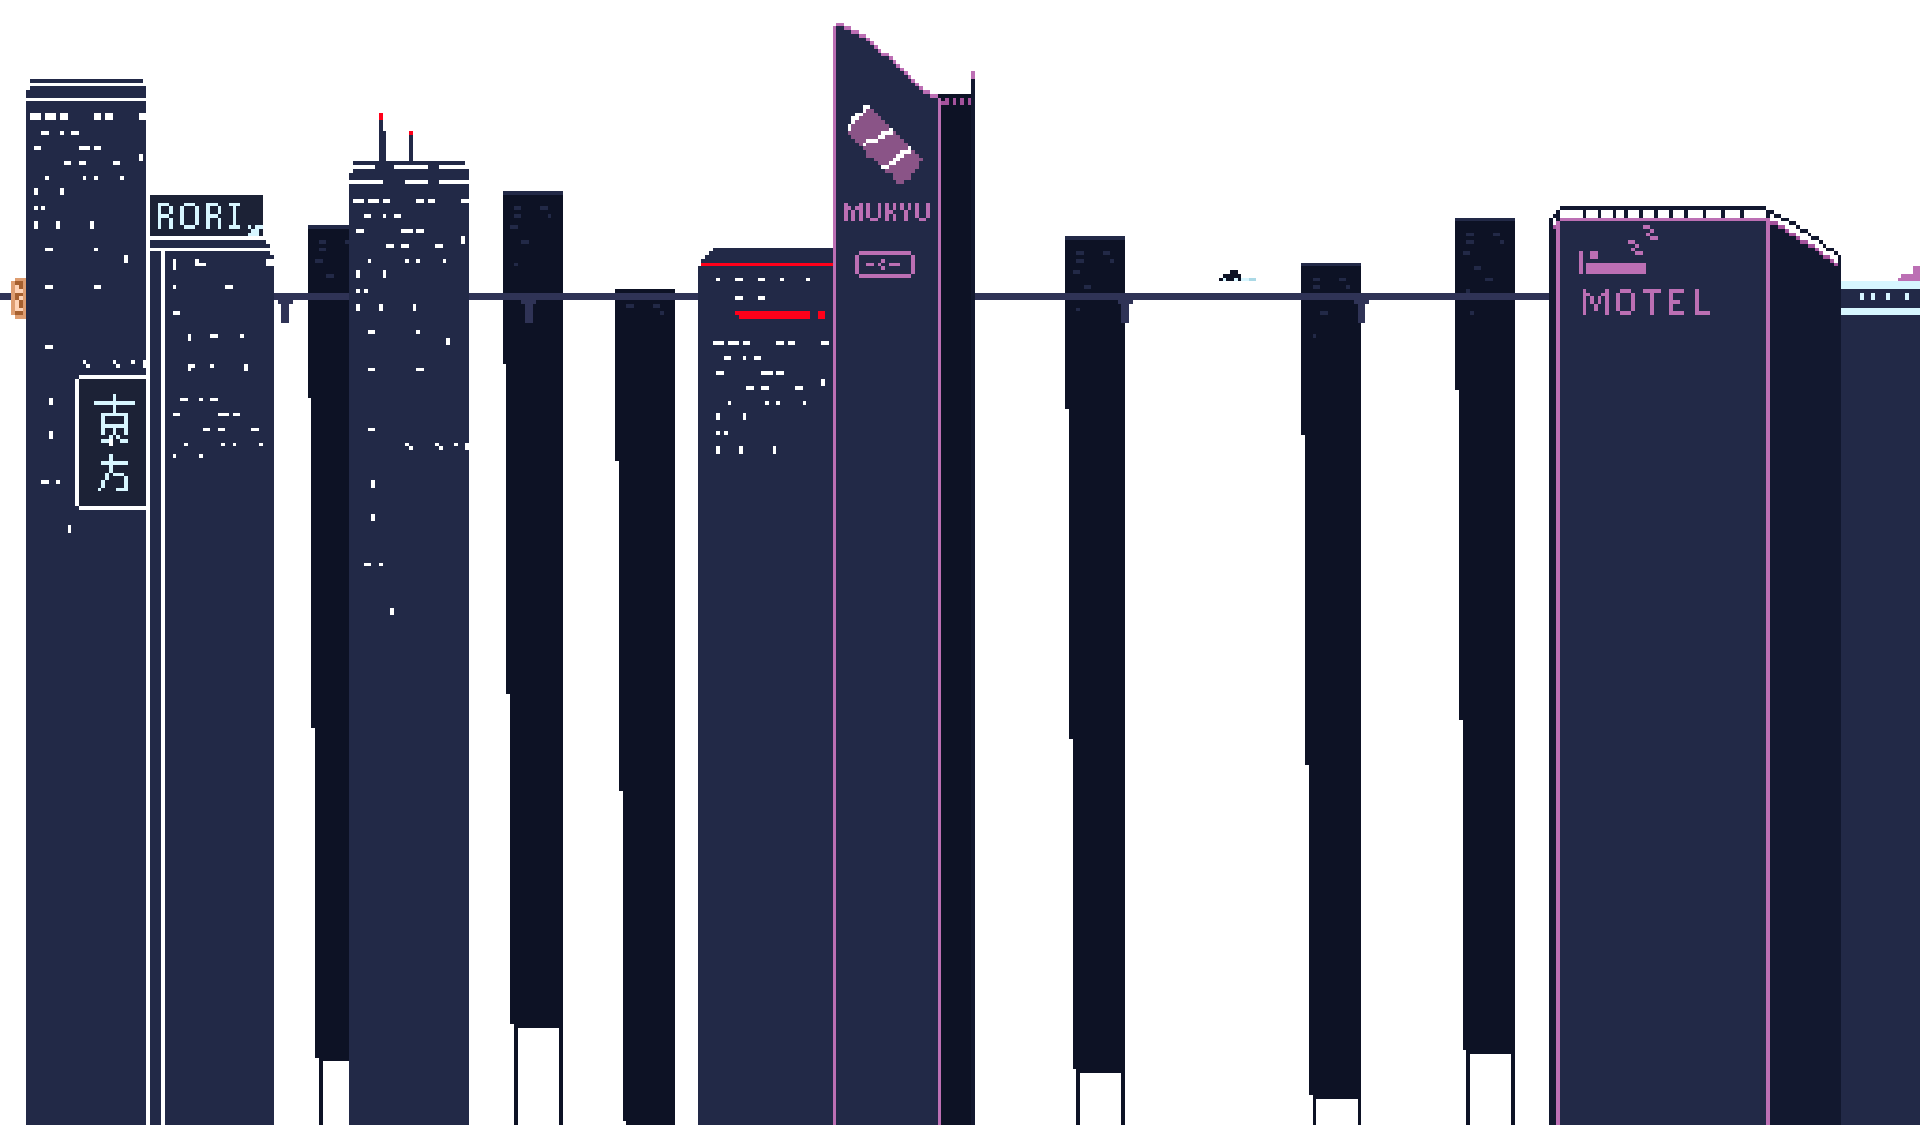
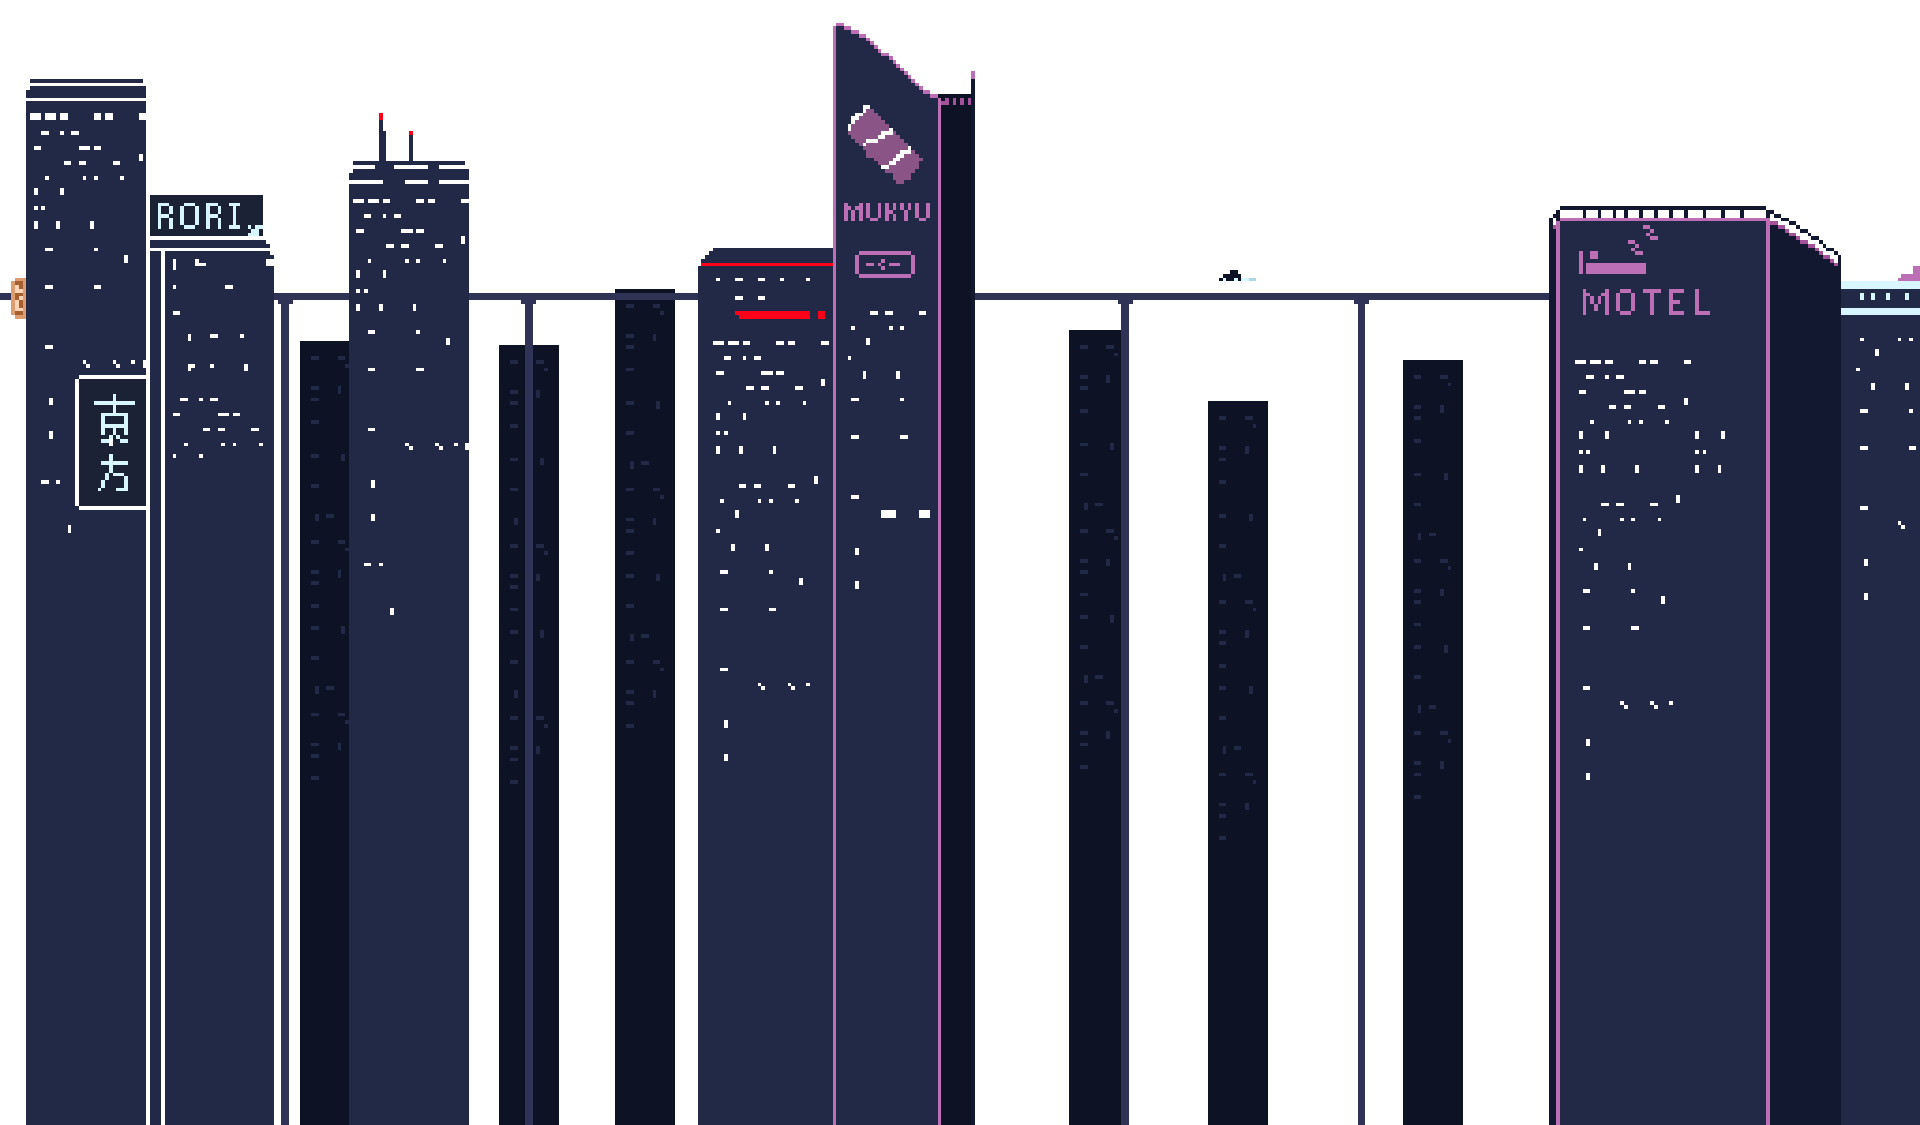
🛠 improve background layering

diff --git a/src/data/Parallax.ts b/src/data/Parallax.ts
@@ -7,6 +7,21 @@ export const parallaxImageData = [
     scrollSpeedY: 0.2,
   },
   {
+    src: '/assets/bg/star.png',
+    scrollSpeedX: 0,
+    scrollSpeedY: 0.2,
+  },
+  {
+    src: '/assets/bg/low-sky.png',
+    scrollSpeedX: 0,
+    scrollSpeedY: 0.75,
+  },
+  {
+    src: '/assets/bg/moon.png',
+    scrollSpeedX: 0,
+    scrollSpeedY: 0.25,
+  },
+  {
     src: '/assets/bg/city.png',
     scrollSpeedX: 0,
     scrollSpeedY: 0.7,

diff --git a/src/composable/useParallaxCanvas.ts b/src/composable/useParallaxCanvas.ts
@@ -109,6 +109,9 @@ export function useParallaxCanvas({ canvas, img, scene }: ParallaxParams) {
   function loop(_: number) {
     if (!ctx) return;
 
+    ctx.drawImage(img[0].image,
+      0, 0, width, height, 0, 0, width, height
+    );
     draw(ctx, img, camera, width, height);
     drawVignette(ctx, width, height);
 
